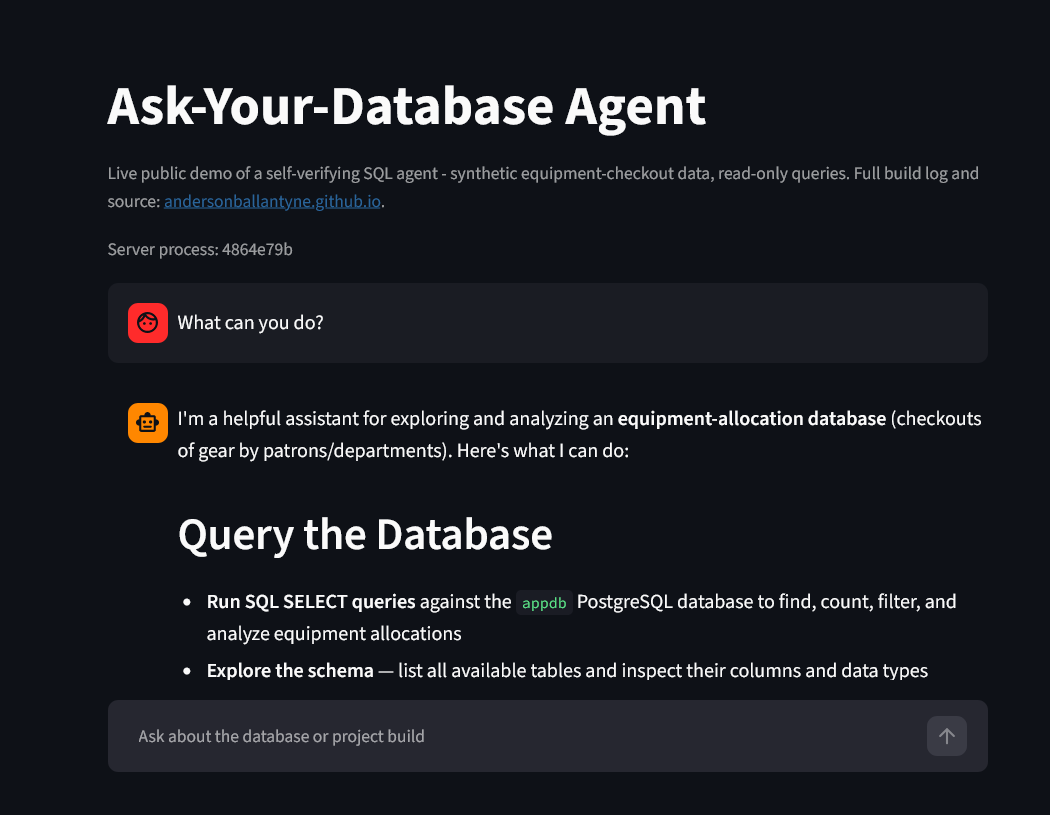
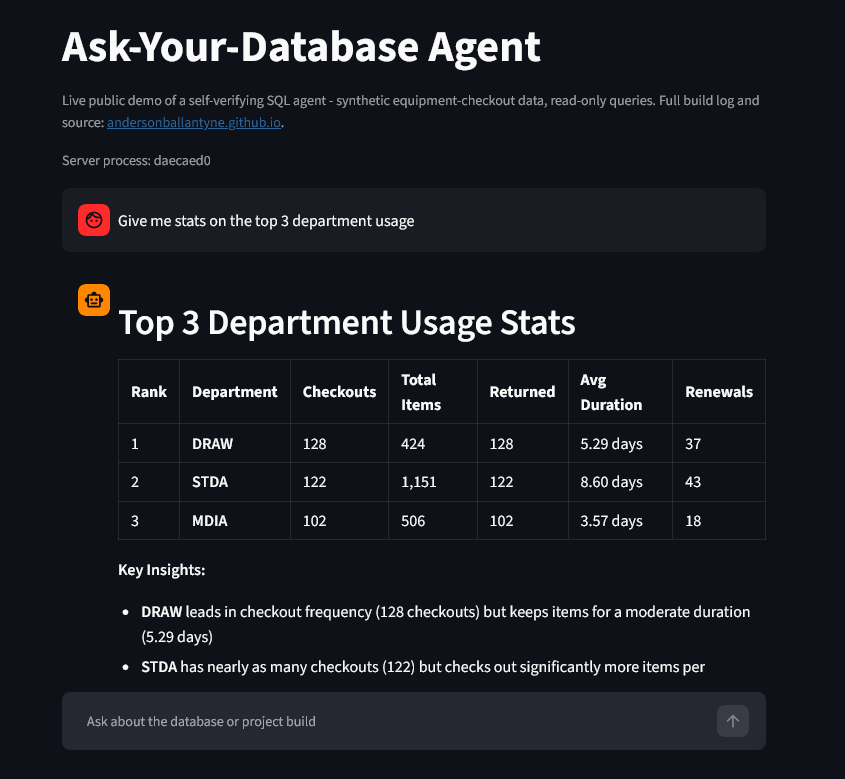
Rework the hero demo and overview chart around real department-usage data
Swap the micro-demo's sample question/answer from day-of-week to top-3
department usage, replace the app screenshot with a matching live answer,
move the screenshot below the Streamlit feature bullet and open it by
default, and rebuild the overview sparkline as a top-10 department bar
chart with the top 3 highlighted.

diff --git a/index.html b/index.html
@@ -104,7 +104,7 @@
 
   /* ---- real-data sparkline ---- */
   .data-strip { margin: 1.6rem 0 0; }
-  .data-strip .sparkline { max-width: 320px; display: block; }
+  .data-strip .sparkline { max-width: 420px; display: block; }
   .data-strip .caption { font-family: "IBM Plex Mono", monospace; font-size: 11.5px; color: var(--faint); margin-top: 0.5rem; }
 
   .hero details.diagram { border: 1px solid var(--line); border-radius: 10px; background: var(--panel); margin-top: 1.2rem; max-width: 640px; }
@@ -221,14 +221,10 @@
 <div class="micro-demo-label"><span>sample exchange &middot; illustrative, not live</span><a href="https://sqltest01-xsbrz2cqxejyktbhe7ekzm.streamlit.app/" rel="noopener" target="_blank">ask it yourself &#8599;</a></div>
 <div class="md-line"><span class="md-prompt">&rsaquo;</span> <span id="mdTyped"></span><span aria-hidden="true" class="md-caret"></span></div>
 <div class="md-answer" hidden="" id="mdAnswer">
-<p>333 &mdash; more Monday checkouts than any other day of the week.</p>
+<p>DRAW leads with 128 checkouts, ahead of STDA (122) and MDIA (102).</p>
 <span class="md-badge">&#10003; Verified against tool evidence</span>
 </div>
 </div>
-<details class="diagram">
-<summary>View app screenshot</summary>
-<div class="diagram-body"><img alt="Screenshot of the live Ask-Your-Database Agent public demo answering 'What can you do?' with a real response describing its SQL query and schema-exploration capabilities against the appdb PostgreSQL database." src="live-demo-screenshot.png"/></div>
-</details>
 </div>
 </section>
 <section id="overview">
@@ -244,25 +240,33 @@
 <span class="chip chip-warn">4 documented live incident audits</span>
 </div>
 <div class="data-strip">
-<svg aria-label="Real checkout counts by day of week: Monday 333, Tuesday 308, Wednesday 266, Thursday 265, Friday 320, Saturday 43, Sunday 0 - Monday is the busiest day" class="sparkline" role="img" viewbox="0 0 288 112">
-<line stroke="var(--line)" stroke-width="1" x1="6" x2="278" y1="90" y2="90"></line>
-<text fill="var(--good)" font-family="'IBM Plex Mono', monospace" font-size="11" font-weight="700" text-anchor="middle" x="24" y="16">333</text>
-<rect fill="var(--good)" height="70" rx="3" width="28" x="10" y="20"></rect>
-<rect fill="var(--tint)" height="64.7" rx="3" stroke="var(--line)" width="28" x="48" y="25.3"></rect>
-<rect fill="var(--tint)" height="55.9" rx="3" stroke="var(--line)" width="28" x="86" y="34.1"></rect>
-<rect fill="var(--tint)" height="55.7" rx="3" stroke="var(--line)" width="28" x="124" y="34.3"></rect>
-<rect fill="var(--tint)" height="67.3" rx="3" stroke="var(--line)" width="28" x="162" y="22.7"></rect>
-<rect fill="var(--tint)" height="9" rx="2" stroke="var(--line)" width="28" x="200" y="81"></rect>
-<rect fill="var(--tint)" height="2" rx="1" stroke="var(--line)" width="28" x="238" y="88"></rect>
-<text fill="var(--faint)" font-family="'IBM Plex Mono', monospace" font-size="10" text-anchor="middle" x="24" y="102">Mon</text>
-<text fill="var(--faint)" font-family="'IBM Plex Mono', monospace" font-size="10" text-anchor="middle" x="62" y="102">Tue</text>
-<text fill="var(--faint)" font-family="'IBM Plex Mono', monospace" font-size="10" text-anchor="middle" x="100" y="102">Wed</text>
-<text fill="var(--faint)" font-family="'IBM Plex Mono', monospace" font-size="10" text-anchor="middle" x="138" y="102">Thu</text>
-<text fill="var(--faint)" font-family="'IBM Plex Mono', monospace" font-size="10" text-anchor="middle" x="176" y="102">Fri</text>
-<text fill="var(--faint)" font-family="'IBM Plex Mono', monospace" font-size="10" text-anchor="middle" x="214" y="102">Sat</text>
-<text fill="var(--faint)" font-family="'IBM Plex Mono', monospace" font-size="10" text-anchor="middle" x="252" y="102">Sun</text>
+<svg aria-label="Real checkout counts by department, top 10: DRAW 128, STDA 122, MDIA 102, ANIM 90, VIZD 79, INDD 78, GNRL 29, CRFT 23, SPAC 21, DGTL 18 - DRAW, STDA, and MDIA are the top 3" class="sparkline" role="img" viewbox="0 0 380 112">
+<line stroke="var(--line)" stroke-width="1" x1="6" x2="370" y1="90" y2="90"></line>
+<text fill="var(--good)" font-family="'IBM Plex Mono', monospace" font-size="11" font-weight="700" text-anchor="middle" x="21" y="14">128</text>
+<rect fill="var(--good)" height="70" rx="3" width="26" x="8" y="20"></rect>
+<text fill="var(--good)" font-family="'IBM Plex Mono', monospace" font-size="11" font-weight="700" text-anchor="middle" x="57.4" y="17.3">122</text>
+<rect fill="var(--good)" height="66.7" rx="3" width="26" x="44.4" y="23.3"></rect>
+<text fill="var(--good)" font-family="'IBM Plex Mono', monospace" font-size="11" font-weight="700" text-anchor="middle" x="93.8" y="28.2">102</text>
+<rect fill="var(--good)" height="55.8" rx="3" width="26" x="80.8" y="34.2"></rect>
+<rect fill="var(--tint)" height="49.2" rx="3" stroke="var(--line)" width="26" x="117.2" y="40.8"></rect>
+<rect fill="var(--tint)" height="43.2" rx="3" stroke="var(--line)" width="26" x="153.6" y="46.8"></rect>
+<rect fill="var(--tint)" height="42.7" rx="3" stroke="var(--line)" width="26" x="190" y="47.3"></rect>
+<rect fill="var(--tint)" height="15.9" rx="3" stroke="var(--line)" width="26" x="226.4" y="74.1"></rect>
+<rect fill="var(--tint)" height="12.6" rx="3" stroke="var(--line)" width="26" x="262.8" y="77.4"></rect>
+<rect fill="var(--tint)" height="11.5" rx="3" stroke="var(--line)" width="26" x="299.2" y="78.5"></rect>
+<rect fill="var(--tint)" height="9.8" rx="3" stroke="var(--line)" width="26" x="335.6" y="80.2"></rect>
+<text fill="var(--faint)" font-family="'IBM Plex Mono', monospace" font-size="9" text-anchor="middle" x="21" y="102">DRAW</text>
+<text fill="var(--faint)" font-family="'IBM Plex Mono', monospace" font-size="9" text-anchor="middle" x="57.4" y="102">STDA</text>
+<text fill="var(--faint)" font-family="'IBM Plex Mono', monospace" font-size="9" text-anchor="middle" x="93.8" y="102">MDIA</text>
+<text fill="var(--faint)" font-family="'IBM Plex Mono', monospace" font-size="9" text-anchor="middle" x="130.2" y="102">ANIM</text>
+<text fill="var(--faint)" font-family="'IBM Plex Mono', monospace" font-size="9" text-anchor="middle" x="166.6" y="102">VIZD</text>
+<text fill="var(--faint)" font-family="'IBM Plex Mono', monospace" font-size="9" text-anchor="middle" x="203" y="102">INDD</text>
+<text fill="var(--faint)" font-family="'IBM Plex Mono', monospace" font-size="9" text-anchor="middle" x="239.4" y="102">GNRL</text>
+<text fill="var(--faint)" font-family="'IBM Plex Mono', monospace" font-size="9" text-anchor="middle" x="275.8" y="102">CRFT</text>
+<text fill="var(--faint)" font-family="'IBM Plex Mono', monospace" font-size="9" text-anchor="middle" x="312.2" y="102">SPAC</text>
+<text fill="var(--faint)" font-family="'IBM Plex Mono', monospace" font-size="9" text-anchor="middle" x="348.6" y="102">DGTL</text>
 </svg>
-<p class="caption">real checkout activity by day of week, from the project's own dataset &mdash; Monday, not Friday, is the busiest day</p>
+<p class="caption">real checkout volume by department, top 10 of the project's own dataset &mdash; DRAW, STDA, and MDIA lead</p>
 </div>
 <h3 style="margin-top:2.4rem;"><svg fill="none" stroke="currentColor" stroke-linecap="round" stroke-linejoin="round" stroke-width="2" viewbox="0 0 24 24"><polygon points="13 2 3 14 12 14 11 22 21 10 12 10 13 2"></polygon></svg>What it does</h3>
 <ul class="overview-list">
@@ -272,6 +276,10 @@
 <li><span class="li-icon"><svg fill="none" stroke="currentColor" stroke-linecap="round" stroke-linejoin="round" stroke-width="2" viewbox="0 0 24 24"><path d="M19 21H5a2 2 0 0 1-2-2V5a2 2 0 0 1 2-2h11l5 5v11a2 2 0 0 1-2 2z"></path><polyline points="17 21 17 13 7 13 7 21"></polyline><polyline points="7 3 7 8 15 8"></polyline></svg></span><span><b>Persists computed results for reuse</b> in a scratch workspace isolated to its own database role and schema, with age-based visibility into what has been left behind and a UI-only path to remove it.</span></li>
 <li><span class="li-icon"><svg fill="none" stroke="currentColor" stroke-linecap="round" stroke-linejoin="round" stroke-width="2" viewbox="0 0 24 24"><polyline points="4 17 10 11 4 5"></polyline><line x1="12" x2="20" y1="19" y2="19"></line></svg></span><span><b>Runs as a working chat application</b> through a Streamlit front end with persistent, tiered conversation memory and transparency into the tools an answer relied on.</span></li>
 </ul>
+<details class="diagram" open="">
+<summary>View app screenshot</summary>
+<div class="diagram-body"><img alt="Screenshot of the live Ask-Your-Database Agent public demo answering 'Give me stats on the top 3 department usage' with a real results table (DRAW 128, STDA 122, MDIA 102 checkouts) and generated insights." src="live-demo-screenshot.png"/></div>
+</details>
 <h3><svg fill="none" stroke="currentColor" stroke-linecap="round" stroke-linejoin="round" stroke-width="2" viewbox="0 0 24 24"><polygon points="12 2 15.09 8.26 22 9.27 17 14.14 18.18 21.02 12 17.77 5.82 21.02 7 14.14 2 9.27 8.91 8.26 12 2"></polygon></svg>What makes it stand out</h3>
 <ul class="overview-list">
 <li><span class="li-icon"><svg fill="none" stroke="currentColor" stroke-linecap="round" stroke-linejoin="round" stroke-width="2" viewbox="0 0 24 24"><path d="M22 11.08V12a10 10 0 1 1-5.93-9.14"></path><polyline points="22 4 12 14.01 9 11.01"></polyline></svg></span><span><b>Self-verification.</b> Every tool-backed response is checked by the project's second agent — the Verifier/Critic Agent — against the actual evidence gathered for the response, with a visible verified/unverified result and a plain-English reason. It is a distinct second agent in the stack, not simply another presentation layer for the first agent.</span></li>
@@ -459,7 +467,7 @@
 </footer>
 <script>
 (function () {
-  var text = "How many checkouts happen on Mondays?";
+  var text = "Give me stats on the top 3 department usage";
   var el = document.getElementById('mdTyped');
   var answer = document.getElementById('mdAnswer');
   if (!el || !answer) return;
